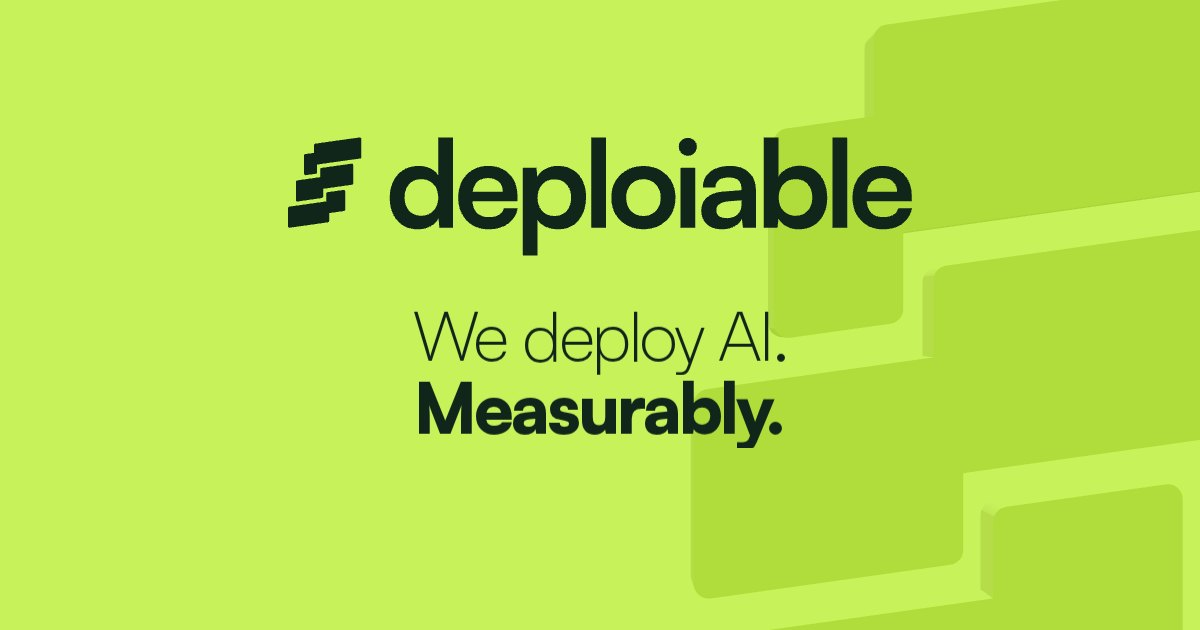
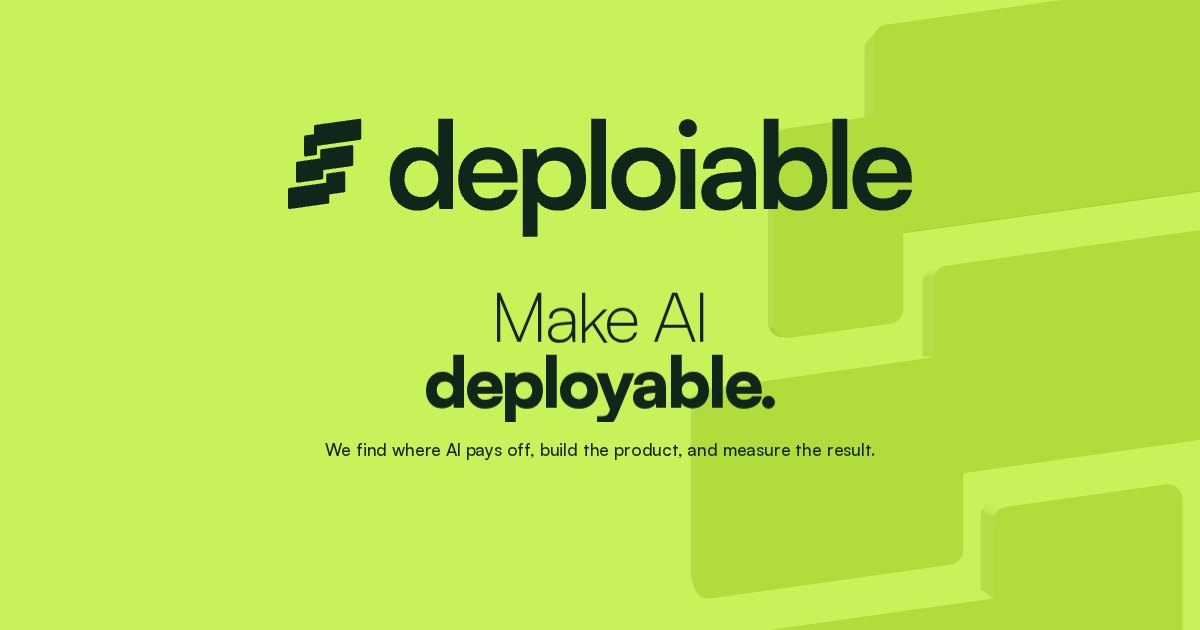
Tagline "Make AI deployable.", sottotitolo e blocco pre-lancio con offerta
- Frase: "Make AI" / "deployable."; sottotitolo: "We find where AI pays off, build the product, and measure the result."
- "Launching October 2026", pulsante "Claim your spot", nota sull'AI process review gratuita per le prime 20 aziende
- Titolo, descrizione e anteprima social coerenti; centratura ottica e ritmo verticale rimisurati

Claude-Session: https://claude.ai/code/session_01PeA7XYbHTW5WLG5P8a7u88

Changed region(s): [[0.2158, 0.181, 0.7708, 0.4222], [0.2775, 0.4524, 0.74, 0.7238]]

diff --git a/site/index.html b/site/index.html
@@ -3,12 +3,12 @@
   <head>
     <meta charset="utf-8" />
     <meta name="viewport" content="width=device-width, initial-scale=1, viewport-fit=cover" />
-    <title>Deploiable · We deploy AI. Measurably.</title>
-    <meta name="description" content="We deploy AI. Measurably." />
+    <title>Deploiable · Make AI deployable.</title>
+    <meta name="description" content="Make AI deployable. We find where AI pays off, build the product, and measure the result. Launching October 2026." />
     <meta name="theme-color" content="#10261B" />
     <meta property="og:type" content="website" />
-    <meta property="og:title" content="Deploiable · We deploy AI. Measurably." />
-    <meta property="og:description" content="We deploy AI. Measurably." />
+    <meta property="og:title" content="Deploiable · Make AI deployable." />
+    <meta property="og:description" content="We find where AI pays off, build the product, and measure the result. Launching October 2026." />
     <meta property="og:image" content="%VITE_SITE_URL%og.jpg" />
     <meta property="og:url" content="%VITE_SITE_URL%" />
     <meta name="twitter:card" content="summary_large_image" />
@@ -17,6 +17,8 @@
     <noscript>
       <style>
         .line { transform: none !important; }
+        .sub, .outro > * { opacity: 1 !important; }
+        .outro { visibility: visible !important; }
       </style>
     </noscript>
   </head>
@@ -30,20 +32,21 @@
            nella versione statica è il logo ufficiale. -->
       <div class="logo-slot"><!-- logo:static-logo --></div>
       <h1 class="claim">
-        <span class="mask"><span class="line line--light" lang="en">We deploy AI.</span></span>
-        <span class="mask"><span class="line line--black" lang="en">Measurably.</span></span>
+        <span class="mask"><span class="line line--light" lang="en">Make AI</span></span>
+        <span class="mask"><span class="line line--black" lang="en">deployable.</span></span>
       </h1>
+      <p class="sub" lang="en">We find where AI pays off, build the product, and measure the result.</p>
       <div class="outro" lang="en">
-        <p class="soon"><i class="soon-dot" aria-hidden="true"></i>Coming soon</p>
+        <p class="soon"><i class="soon-dot" aria-hidden="true"></i>Launching October 2026</p>
         <form class="signup" novalidate>
           <label class="sr-only" for="signup-email">Email</label>
           <input id="signup-email" name="email" type="email" required autocomplete="email" inputmode="email" enterkeyhint="send" spellcheck="false" placeholder="your@email.com" />
           <!-- trappola per i bot: invisibile alle persone -->
           <input class="hp" name="_gotcha" type="text" tabindex="-1" autocomplete="off" aria-hidden="true" />
-          <button type="submit">Notify me<svg class="arrow" viewBox="0 0 12 12" aria-hidden="true"><path d="M1 6h9M6.5 2.5 10 6l-3.5 3.5" /></svg></button>
+          <button type="submit">Claim your spot<svg class="arrow" viewBox="0 0 12 12" aria-hidden="true"><path d="M1 6h9M6.5 2.5 10 6l-3.5 3.5" /></svg></button>
         </form>
         <p class="signup-done" aria-hidden="true"><svg class="check" viewBox="0 0 12 12"><path d="M2 6.3 4.8 9 10 3" /></svg>You’re on the list</p>
-        <p class="signup-note" role="status" aria-live="polite">Be the first to know when we launch. No spam.</p>
+        <p class="signup-note" role="status" aria-live="polite">The first 20 companies get a free AI process review.</p>
       </div>
     </main>
 

diff --git a/site/src/styles/main.css b/site/src/styles/main.css
@@ -125,12 +125,16 @@ p {
 .line--light {
   font-weight: 300;
   color: var(--ink-light);
+  /* centratura ottica di "Make AI": la M ha più aria a sinistra della I a destra (misurato in scripts/align.mjs) */
+  margin-left: -0.05em;
 }
 .line--black {
   font-weight: 900;
   color: var(--ink-strong);
-  /* centratura ottica: la M ha più spazio a sinistra del punto a destra (−0,03 em, misurato in scripts/align.mjs) */
-  margin-left: -0.06em;
+}
+/* "Make AI" non ha discendenti e "deployable." ha le ascendenti: le due righe si avvicinano un po'. */
+.mask + .mask {
+  margin-top: -0.1em;
 }
 
 .mask {
@@ -145,6 +149,21 @@ p {
   will-change: transform;
 }
 
+/* ---------- Sottotitolo ---------- */
+/* Dice per chi e cosa si ottiene: il metodo in tre verbi. Più vicino alla frase che al blocco iscrizione. */
+.sub {
+  margin: calc(var(--logo-w) / 14 * -0.55) auto 0;
+  max-width: min(100%, 36em);
+  font-size: clamp(15px, calc(var(--claim-fs) * 0.25), 21px);
+  font-weight: 500;
+  line-height: 1.4;
+  letter-spacing: -0.01em;
+  text-align: center;
+  text-wrap: balance;
+  color: var(--ink-light);
+  opacity: 0; /* compare dopo la frase (src/app.ts) */
+}
+
 /* ---------- Coming soon e iscrizione ---------- */
 /* Piccoli, sotto la frase: compaiono per ultimi. Su Lime solo Forest (i colori seguono la palette);
    etichetta e nota in JetBrains Mono, come le didascalie del brand book; testo secondario in Moss. */
@@ -155,9 +174,8 @@ p {
   flex-direction: column;
   align-items: center;
   visibility: hidden;
-  /* stesso spazio "a inchiostro" fra logo e frase e fra frase e blocco: la discendente di "Measurably." e
-     l'interlinea della frase rubano 0,16 em del corpo della frase (misurato con scripts/align.mjs) */
-  margin-top: calc(var(--claim-fs) * 0.16);
+  /* stesso spazio "a inchiostro" fra logo e frase e fra sottotitolo e blocco (misurato con scripts/align.mjs) */
+  margin-top: calc(var(--claim-fs) * 0.13);
 }
 /* ognuno dei tre elementi entra per conto suo, sfalsati (src/app.ts) */
 .outro > * {
@@ -302,7 +320,8 @@ p {
   font: 500 11px/1.4 var(--mono);
   letter-spacing: 0.02em;
   text-align: center;
-  white-space: nowrap; /* può uscire dalla larghezza del logo, che sui telefoni in orizzontale è stretta */
+  max-width: min(92vw, 440px);
+  text-wrap: balance;
   color: var(--ink-soft);
 }
 
@@ -461,6 +480,10 @@ p {
 .is-static .outro {
   visibility: visible;
 }
+.is-static .sub {
+  opacity: 1;
+  animation: fade-up 0.7s cubic-bezier(0.2, 0.7, 0.2, 1) 1.35s both;
+}
 .is-static .outro > * {
   opacity: 1;
   animation: fade-up 0.7s cubic-bezier(0.2, 0.7, 0.2, 1) both;
@@ -487,6 +510,7 @@ p {
   .is-static .logo-slot .logo-lettering,
   .is-static .line,
   .is-static .outro > *,
+  .is-static .sub,
   .outro[data-state] .signup,
   .outro[data-state] .signup-done,
   .soon-dot {

diff --git a/site/tests/e2e/film.spec.ts b/site/tests/e2e/film.spec.ts
@@ -21,7 +21,8 @@ test('suspense: nessun testo finché le barre non scattano al loro posto', async
   // il browser normalizza lo stile in "translate3d(0px, 110%, 0px)": si legge la percentuale verticale
   const offset = () =>
     page.evaluate(() => Array.from(document.querySelectorAll<HTMLElement>('.line')).map((l) => parseFloat(/,\s*(-?[\d.]+)%/.exec(l.style.transform)?.[1] ?? 'NaN')));
-  const hidden = async () => (await offset()).every((v) => v === 110);
+  const subHidden = () => page.locator('.sub').evaluate((el) => getComputedStyle(el).opacity === '0');
+  const hidden = async () => (await offset()).every((v) => v === 110) && (await subHidden());
   for (const t of [0.8, TIMES.segreto, TIMES.deploy, TIMES.silenzio, SILENZIO_A + 0.4]) {
     await seek(page, t);
     expect(await hidden(), `t=${t}`).toBe(true);
@@ -323,7 +324,7 @@ test('iscrizione: email non valida, invio riuscito, errore del servizio', async 
   await page.click('.signup button');
   await expect(page.locator('.signup-done')).toBeVisible();
   await expect(page.locator('.signup-done')).toHaveText(/on the list/);
-  await expect(note).toHaveText(/See you at launch/);
+  await expect(note).toHaveText(/in touch before launch/);
   expect(body).toContain('ciao@deploiable.com');
   await expect(page.locator('.signup')).toBeHidden();
 });
@@ -341,7 +342,7 @@ test('dettagli: testo secondario in Moss pieno, etichette in JetBrains Mono', as
   expect(await page.evaluate(() => document.fonts.check('500 11px "JetBrains Mono"'))).toBe(true);
 });
 
-test('ritmo verticale: stesso spazio a inchiostro fra logo e frase e fra frase e "Coming soon"', async ({ page }) => {
+test('ritmo verticale: stesso spazio a inchiostro fra logo e frase e fra sottotitolo e blocco iscrizione', async ({ page }) => {
   await openFilm(page, '', 'high');
   await seek(page, END);
   const box = async (sel: string) => (await page.locator(sel).boundingBox())!;
@@ -358,9 +359,9 @@ test('ritmo verticale: stesso spazio a inchiostro fra logo e frase e fra frase e
   };
   const logo = rows(await box('.logo-slot'));
   const line1 = rows(await box('.line--light'));
-  const line2 = rows(await box('.line--black'));
+  const sub = rows(await box('.sub'));
   const soon = rows(await box('.soon'));
   const a = line1.T - logo.B;
-  const b = soon.T - line2.B;
-  expect(Math.abs(a - b), `logo→frase ${a}px, frase→coming soon ${b}px`).toBeLessThanOrEqual(3);
+  const b = soon.T - sub.B;
+  expect(Math.abs(a - b), `logo→frase ${a}px, sottotitolo→blocco ${b}px`).toBeLessThanOrEqual(3);
 });

diff --git a/site/src/app.ts b/site/src/app.ts
@@ -35,8 +35,8 @@ export async function start(caps: Capabilities) {
   const sweep = document.querySelector<HTMLElement>('.sweep')!;
   const outro = document.querySelector<HTMLElement>('.outro')!;
   // la pillola di conferma prende il posto del modulo: entra con lui
-  const outroItems = [['.soon'], ['.signup', '.signup-done'], ['.signup-note']].map((sel) =>
-    sel.map((q) => outro.querySelector<HTMLElement>(q)!),
+  const outroItems = [['.sub'], ['.soon'], ['.signup', '.signup-done'], ['.signup-note']].map((sel) =>
+    sel.map((q) => document.querySelector<HTMLElement>(q)!),
   );
   const slotEl = document.querySelector<HTMLElement>('.logo-slot')!;
   const state = createState();
@@ -83,7 +83,7 @@ export async function start(caps: Capabilities) {
     // non si possono raggiungere col tab
     outro.style.visibility = state.outro > 0.01 ? 'visible' : 'hidden';
     outroItems.forEach((els, i) => {
-      const p = Math.min(1, Math.max(0, state.outro * 1.45 - i * 0.18));
+      const p = Math.min(1, Math.max(0, state.outro * 1.6 - i * 0.18));
       const e = 1 - Math.pow(1 - p, 3);
       for (const el of els) {
         el.style.opacity = e.toFixed(3);

diff --git a/site/tests/e2e/fallback.spec.ts b/site/tests/e2e/fallback.spec.ts
@@ -11,7 +11,7 @@ test.describe('versione statica', () => {
     expect(await page.evaluate(() => window.__DEPLOIABLE__!.mode)).toBe('static');
     expect(scripts.some((u) => /\/app-.*\.js/.test(u))).toBe(false);
     await expect(page.locator('.logo-slot svg')).toBeVisible();
-    await expect(page.getByRole('heading', { name: /We deploy AI/ })).toBeVisible();
+    await expect(page.getByRole('heading', { name: /Make AI/ })).toBeVisible();
     // il logo completo sta sopra la frase, e tutto dentro lo schermo
     const sym = (await page.locator('.logo-slot svg').boundingBox())!;
     const txt = (await page.locator('.claim').boundingBox())!;
@@ -41,6 +41,6 @@ test('senza WebGL si usa la versione statica', async ({ browser }) => {
 test('versione statica: coming soon e modulo visibili', async ({ page }) => {
   await page.goto('/?mode=static');
   await expect(page.locator('.outro')).toBeVisible();
-  await expect(page.locator('.soon')).toHaveText(/Coming soon/i);
+  await expect(page.locator('.soon')).toHaveText(/Launching October 2026/i);
   await expect(page.locator('#signup-email')).toBeVisible();
 });

diff --git a/site/src/signup.ts b/site/src/signup.ts
@@ -5,8 +5,8 @@ const ENDPOINT: string | undefined = import.meta.env.VITE_SIGNUP_ENDPOINT;
 
 const MESSAGES = {
   invalid: 'Please enter a valid email address.',
-  sending: 'Adding you to the list…',
-  done: 'See you at launch.',
+  sending: 'Saving your spot…',
+  done: 'We’ll be in touch before launch.',
   error: 'Something went wrong. Please try again.',
   closed: 'Sign-ups open very soon.',
 };

diff --git a/site/README.md b/site/README.md
@@ -1,8 +1,10 @@
-# Deploiable · "We deploy AI. Measurably."
+# Deploiable · "Make AI deployable."
 
 Landing pre-lancio: una sola schermata, nessuno scroll, nessuna interazione. Le tre barre del simbolo
 giocano da sole in 3D finché non scattano al loro posto; poi compare la frase.
-Titolo: **We deploy AI. Measurably.** (in inglese)
+Titolo: **Make AI deployable.** (in inglese): il nome è la promessa. Sottotitolo: "We find where AI pays off,
+build the product, and measure the result." Sotto, il blocco pre-lancio: "Launching October 2026", modulo email
+("Claim your spot") e l'offerta "The first 20 companies get a free AI process review."
 
 ## L'animazione (circa 6,6 secondi, poi resta ferma e "viva")
 
